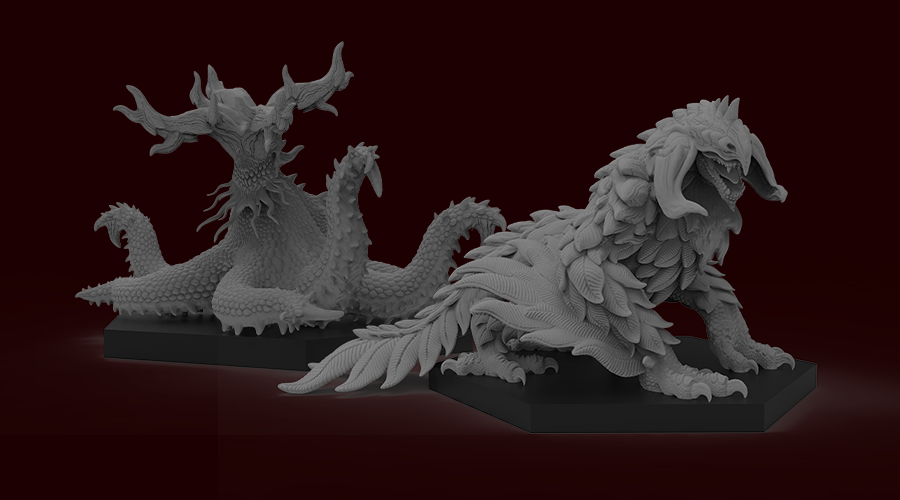
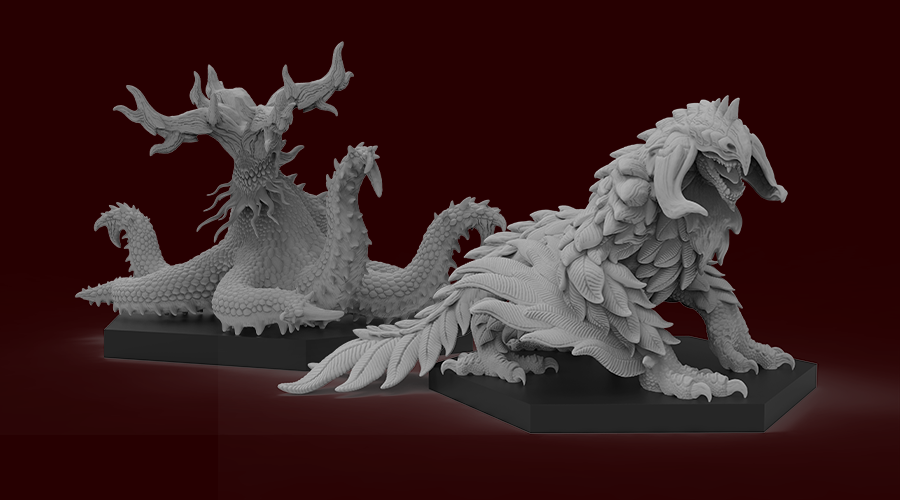
ver.1.5.8

Changed region(s): [[0.0622, 0.09, 0.9022, 0.81]]

diff --git a/css/index.css b/css/index.css
@@ -56,7 +56,7 @@ p{
   width: 600px;
   line-height: 30px;
 }
-.contents_02{
+.contents_00{
   width: 840px;
   margin: 0 auto;
   background-color: blueviolet;
@@ -65,8 +65,9 @@ p{
   padding-left: 60px;
   font-family: Georgia, 'Times New Roman', Times, serif;
   color: white;
+  border-top: 5px solid blueviolet;
 }
-.contents_00{
+.contents_01{
   width: 840px;
   margin: 0 auto;
   background-image: url("../background_img/title_01.png");
@@ -75,18 +76,37 @@ p{
   padding-left: 60px;
   font-family: Georgia, 'Times New Roman', Times, serif;
   color: white;
+  border-top: 5px solid red;
 }
-.contents_01{
+.contents_02{
   width: 840px;
   margin: 0 auto;
-  background-color: goldenrod;
+  background-image: url("../background_img/title_02.png");
   padding-top: 40px;
   padding-bottom: 80px;
   padding-left: 60px;
   font-family: Georgia, 'Times New Roman', Times, serif;
   color: white;
+  border-top: 5px solid goldenrod;
+}
+.contents_03{
+  width: 840px;
+  margin: 0 auto;
+  background-image: url("../background_img/title_03.png");
+  padding-top: 40px;
+  padding-bottom: 80px;
+  padding-left: 60px;
+  font-family: Georgia, 'Times New Roman', Times, serif;
+  color: white;
+  border-top: 5px solid green;
 }
 /*ーーーーーーーーーーーーーーーーーーーーーーーーーーー*/
+.work_link{
+  background-color: gold;
+}
+.work_link a {
+  color: #333333;
+}
 
 .catch{    
   font-size: 20px;
@@ -184,14 +204,6 @@ p{
     box-sizing: border-box !important; /* 枠線と余白を内側に含める */
   }
 
-  .contents_02{
-    width: 100% !important;        /* 750px固定から画面幅の90%に変更 */
-    max-width: 100% !important;
-    padding: 20px 15px !important;/* 左右50pxの余白を15pxに縮小 */
-    font-size: 15px !important;    /* スマホで見やすい文字サイズに */
-    line-height: 1.8 !important;  /* 行間を調整 */
-    box-sizing: border-box !important; /* 枠線と余白を内側に含める */
-  }
   .contents_00{
     width: 100% !important;        /* 750px固定から画面幅の90%に変更 */
     max-width: 100% !important;
@@ -199,7 +211,6 @@ p{
     font-size: 15px !important;    /* スマホで見やすい文字サイズに */
     line-height: 1.8 !important;  /* 行間を調整 */
     box-sizing: border-box !important; /* 枠線と余白を内側に含める */
-    background-image: url("../background_img/title_01_phone.png");
   }
   .contents_01{
     width: 100% !important;        /* 750px固定から画面幅の90%に変更 */
@@ -208,6 +219,25 @@ p{
     font-size: 15px !important;    /* スマホで見やすい文字サイズに */
     line-height: 1.8 !important;  /* 行間を調整 */
     box-sizing: border-box !important; /* 枠線と余白を内側に含める */
+    background-image: url("../background_img/title_01_phone.png");
+  }
+  .contents_02{
+    width: 100% !important;        /* 750px固定から画面幅の90%に変更 */
+    max-width: 100% !important;
+    padding: 20px 15px !important;/* 左右50pxの余白を15pxに縮小 */
+    font-size: 15px !important;    /* スマホで見やすい文字サイズに */
+    line-height: 1.8 !important;  /* 行間を調整 */
+    box-sizing: border-box !important; /* 枠線と余白を内側に含める */
+    background-image: url("../background_img/title_02_phone.png");
+  }
+  .contents_03{
+    width: 100% !important;        /* 750px固定から画面幅の90%に変更 */
+    max-width: 100% !important;
+    padding: 20px 15px !important;/* 左右50pxの余白を15pxに縮小 */
+    font-size: 15px !important;    /* スマホで見やすい文字サイズに */
+    line-height: 1.8 !important;  /* 行間を調整 */
+    box-sizing: border-box !important; /* 枠線と余白を内側に含める */
+    background-image: url("../background_img/title_03_phone.png");
   }
   p{
     font-size: 20px;

diff --git a/index.html b/index.html
@@ -65,7 +65,7 @@
     </div>
     <br><br><br><br><br><br>
 
-    <div class="contents_02"> 
+    <div class="contents_00"> 
       <p>ー　HIGH QUALITY MODEL　ー</p>
       <div class="message">
       <br>ハイクオリティの一点に重点を置いたフィギュアモデルです。
@@ -73,7 +73,7 @@
       </div>
       <p class="work_link"><a href="standard_model.html">作品一覧へ</a></p>
     </div>
-    <div class="contents_00"> 
+    <div class="contents_01"> 
       <p>ー　STANDARD MODEL　ー</p>
       <div class="message">
       <br>手軽なサイズ感を担保し、ハイクオリティな造形表現を目指したフィギュアモデルです。
@@ -81,11 +81,19 @@
       </div>
       <p class="work_link"><a href="standard_model.html">作品一覧へ</a></p>
     </div>
-    <div class="contents_01"> 
+    <div class="contents_02"> 
       <p>ー　HEAD MODEL　ー</p>
       <div class="message">
       <br>とても手に取りやすいサイズ感とコレクション性を追求したフィギュアモデルです。
       試しに一つ欲しいという人にとてもおすすめのシリーズです。
+      </div>
+      <p class="work_link"><a href="standard_model.html">作品一覧へ</a></p>
+    </div>
+    <div class="contents_03"> 
+      <p>ー　CREATURE DESIGN　ー</p>
+      <div class="message">
+      <br>”生物として成り立つクリーチャー”をコンセプトにリアリティのあるクリーチャーデザインをしています。
+      外見はファンタジー的に見えつつも、その内側には生物としての説得性とリアリティがあります。
       </div>
       <p class="work_link"><a href="standard_model.html">作品一覧へ</a></p>
     </div>
